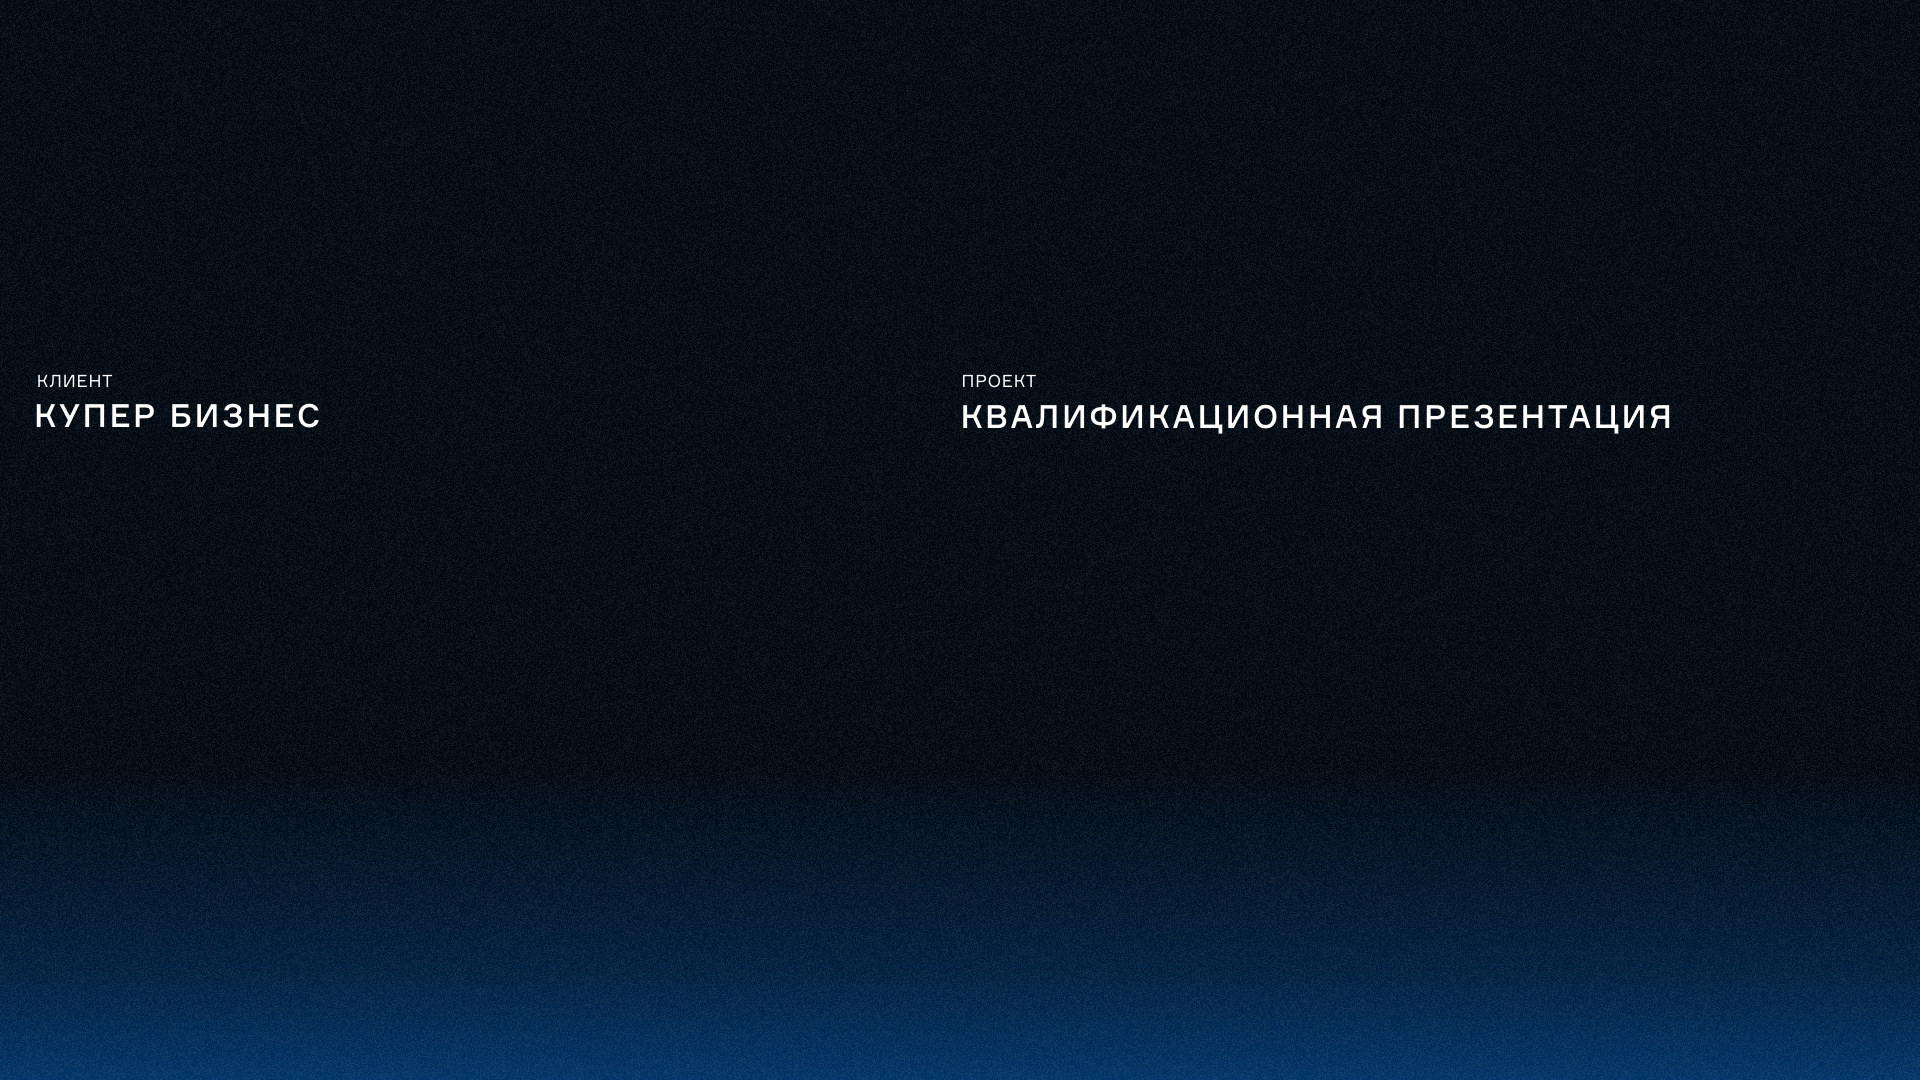
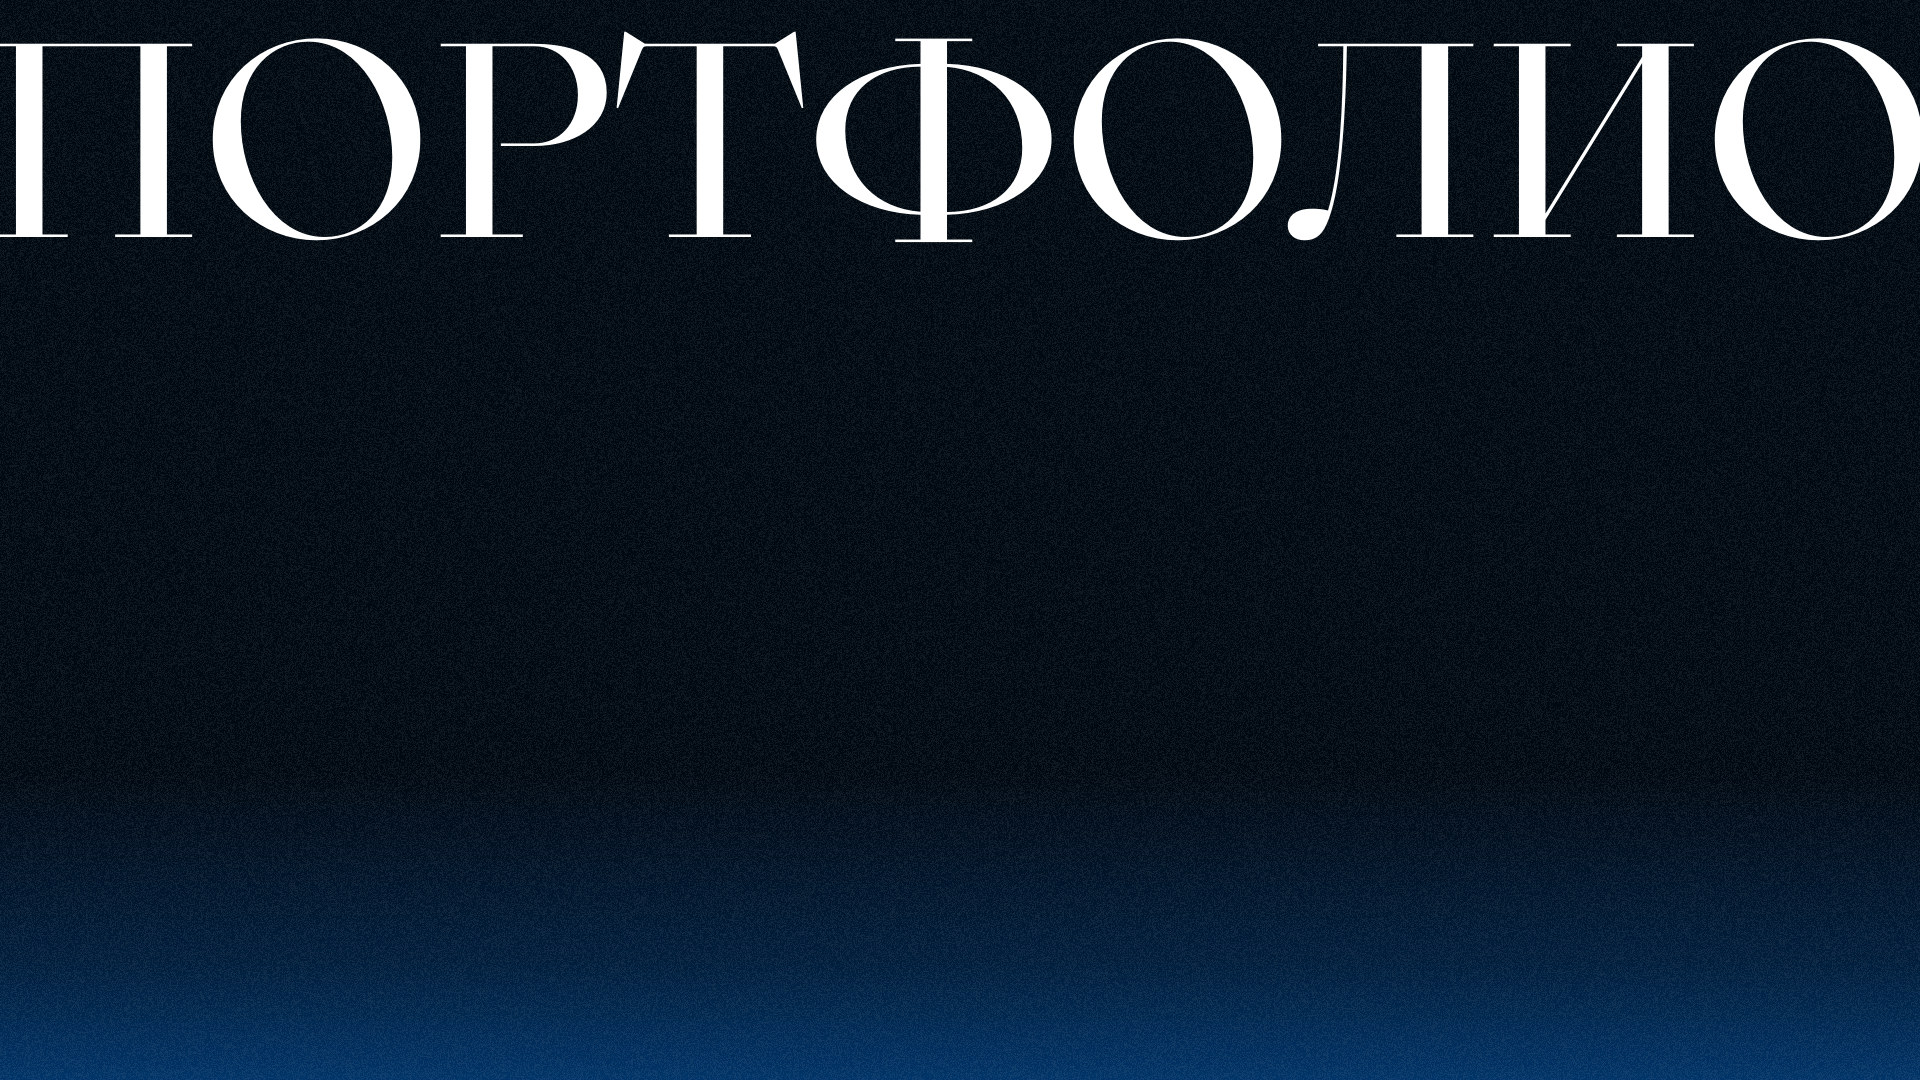
1

diff --git a/build_all.py b/build_all.py
@@ -69,6 +69,8 @@ for src, n in ORDER:
         r = g['rect']
         style = f'left:{r.x0/1920*100:.4f}%;top:{r.y0/1080*100:.4f}%;width:{r.width/1920*100:.4f}%;height:{r.height/1080*100:.4f}%;'
         if kind == 'link':
+            if 'tutkovbudkov' in g['uri'].lower():
+                continue
             hot += (f'\n      <a class="hotspot hotspot-link" style="{style}" href="{g["uri"]}" target="_blank" '
                     f'rel="noopener noreferrer" aria-label="Открыть ссылку"></a>')
             continue
@@ -121,10 +123,12 @@ html = f'''<!DOCTYPE html>
 <html lang="ru">
 <head>
 <meta charset="UTF-8">
-<title>Креатив и ИИ — Тутков/Будков</title>
-<meta name="description" content="Портфолио агентства Тутков/Будков: кейсы по отраслям и использование ИИ.">
+<title>Креатив и ИИ</title>
+<meta name="description" content="Кейсы по отраслям и использование ИИ.">
 <meta name="viewport" content="width=device-width, initial-scale=1">
 <meta name="robots" content="noindex, nofollow, noarchive">
+<meta property="og:title" content="Креатив и ИИ">
+<meta property="og:description" content="Кейсы по отраслям и использование ИИ.">
 <link rel="icon" href="data:,">
 <style>{CSS}
   .chapternav {{ gap: 4px 20px; }}
